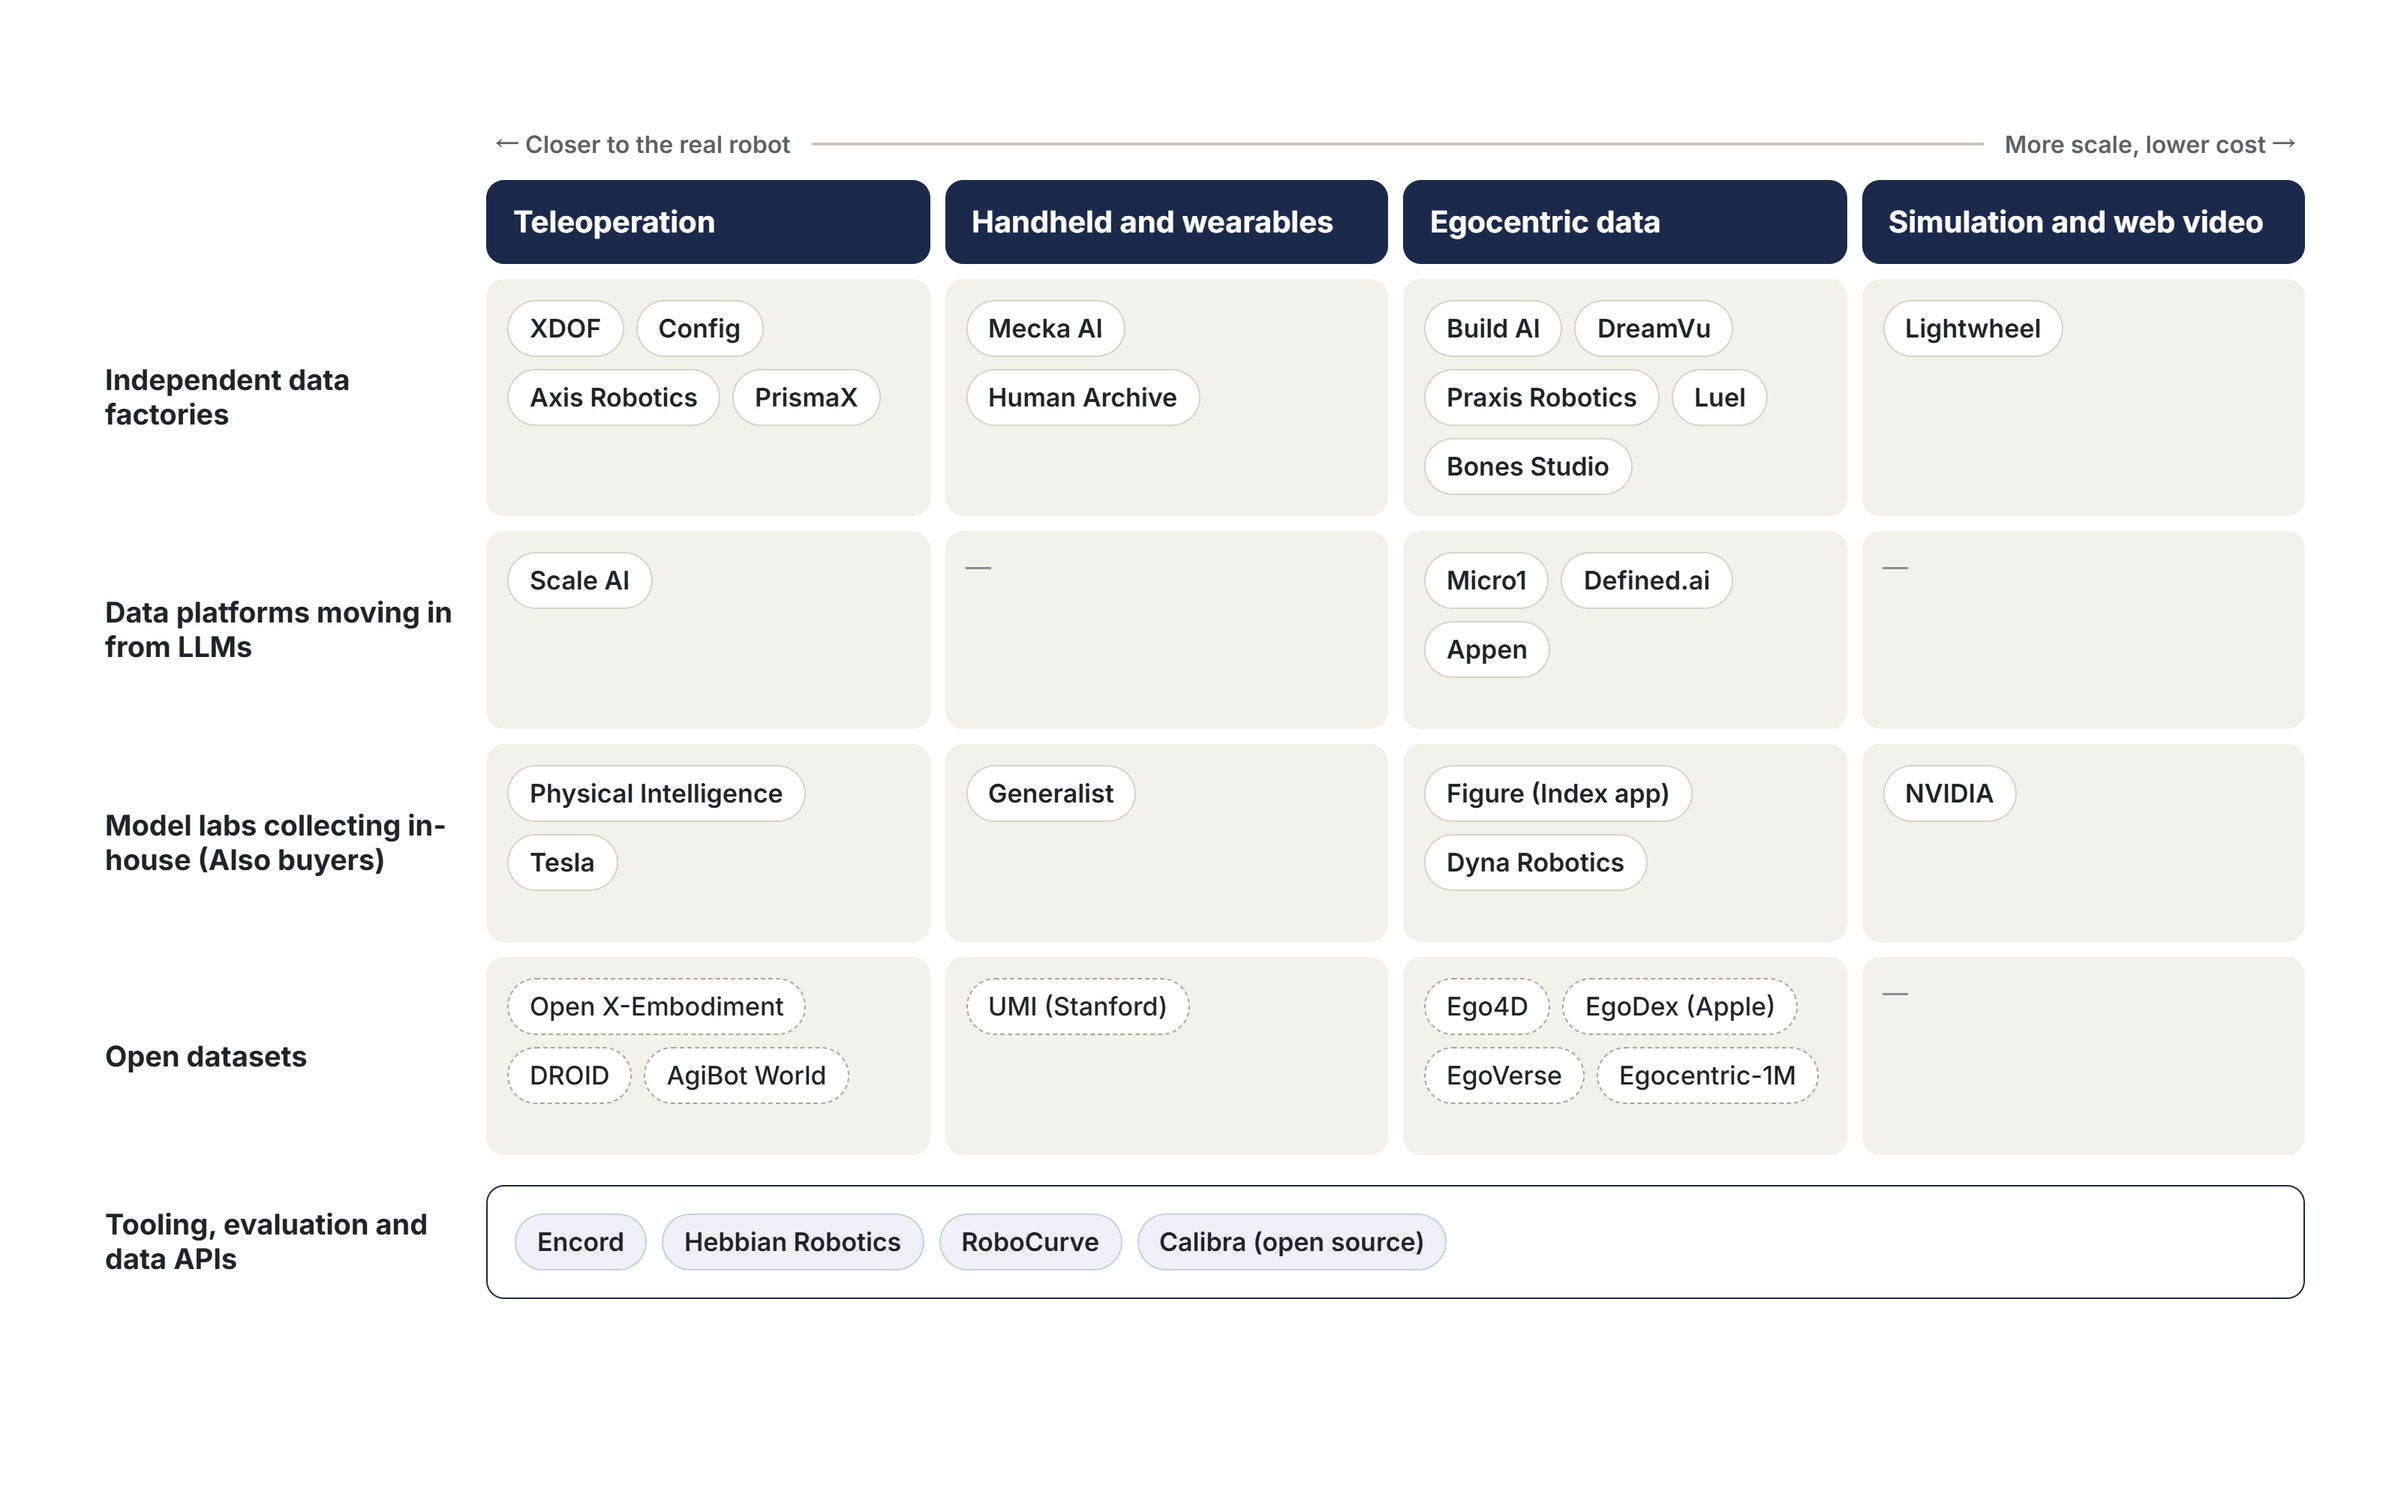
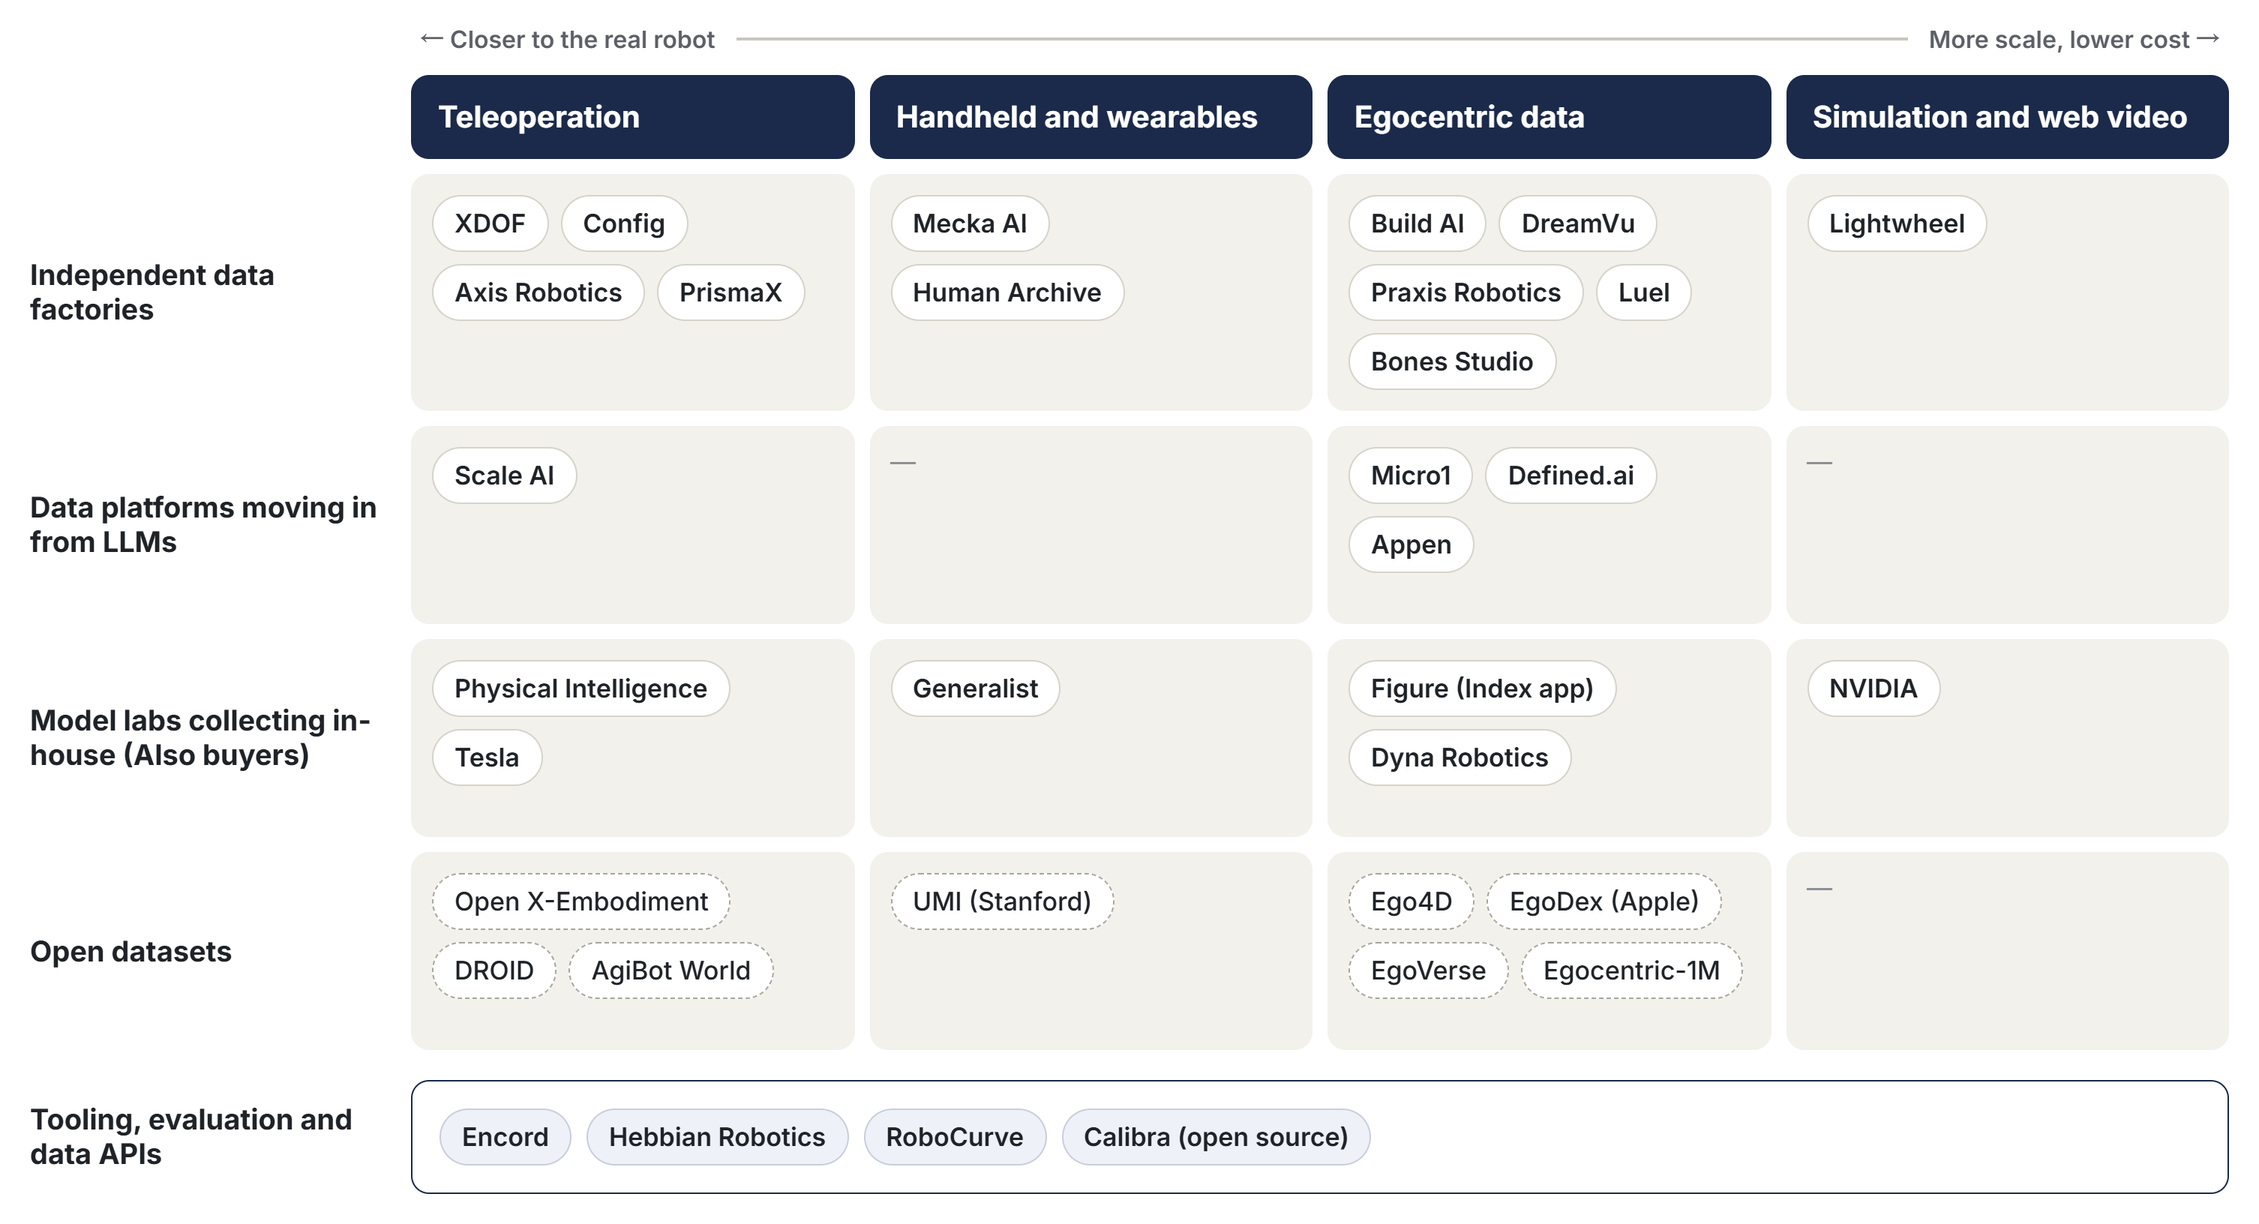
Make the market map wider, sharper and clickable to full size
Claude-Session: https://claude.ai/code/session_013aVcE8yT3QidQfqsd4cT7H

diff --git a/src/styles/global.css b/src/styles/global.css
@@ -243,6 +243,12 @@ main { padding: 32px 0 64px; min-height: 60vh; }
 .deck-full:focus-visible { outline: 2px solid var(--text); outline-offset: 2px; }
 .deck-hint { font-size: 0.9rem; color: var(--muted); margin-bottom: 28px; }
 
+/* A picture wider than the text column (fills the page width), clickable to full size */
+.wide-figure { width: min(912px, calc(100vw - 48px)); margin: 16px 0 28px; }
+.wide-figure a { display: block; border: 1px solid var(--line); cursor: zoom-in; }
+.wide-figure a:focus-visible { outline: 2px solid var(--text); outline-offset: 2px; }
+.wide-figure figcaption { font-size: 0.9rem; color: var(--muted); margin-top: 8px; }
+
 /* Phones and tablets */
 @media (max-width: 820px) {
   .grid { grid-template-columns: repeat(2, 1fr); }
@@ -260,4 +266,5 @@ main { padding: 32px 0 64px; min-height: 60vh; }
   .section { margin-top: 64px; }
   .post-list li { flex-direction: column; gap: 2px; }
   .deck-embed { aspect-ratio: 4 / 3; }
+  .wide-figure { width: calc(100vw - 32px); }
 }

diff --git a/src/content/writing/robot-data-moat.md b/src/content/writing/robot-data-moat.md
@@ -12,7 +12,12 @@ In this gold rush, data companies are the first to make money. But how long does
 
 Here's a quick map of the players, from teleop on the left to internet video on the right.
 
-![Market map of robot training data companies, by data type (teleoperation, handheld and wearables, egocentric data, simulation and web video) and type of company (independent data factories, data platforms moving in from LLMs, model labs collecting in-house, open datasets, and tooling and data APIs)](/writing/robot-data-market-map.png)
+<figure class="wide-figure">
+  <a href="/writing/robot-data-market-map.png" target="_blank" rel="noopener" aria-label="Open the market map at full size in a new tab">
+    <img src="/writing/robot-data-market-map.png" alt="Market map of robot training data companies, by data type (teleoperation, handheld and wearables, egocentric data, simulation and web video) and type of company (independent data factories, data platforms moving in from LLMs, model labs collecting in-house, open datasets, and tooling and data APIs)" width="3012" height="1632">
+  </a>
+  <figcaption>Click the map to open it at full size ↗</figcaption>
+</figure>
 
 ## 1. Do we still need to collect everything?
 
